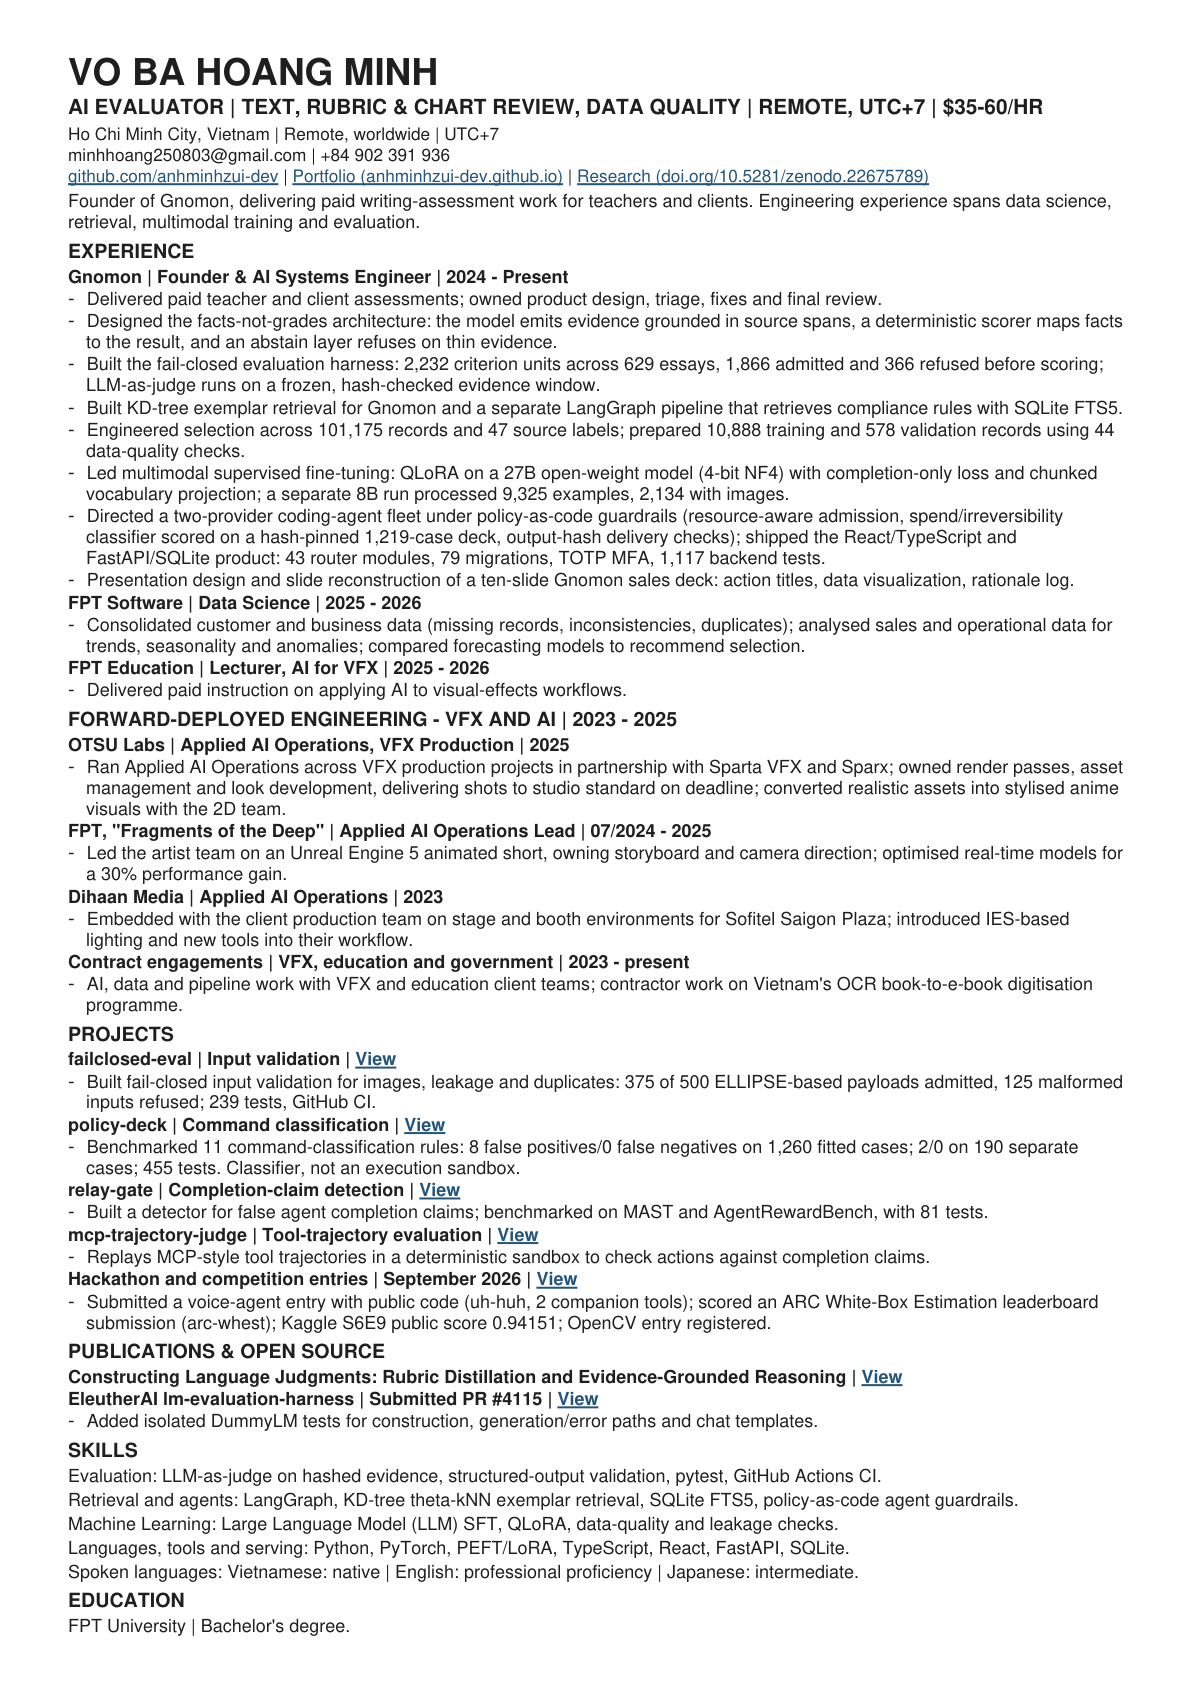
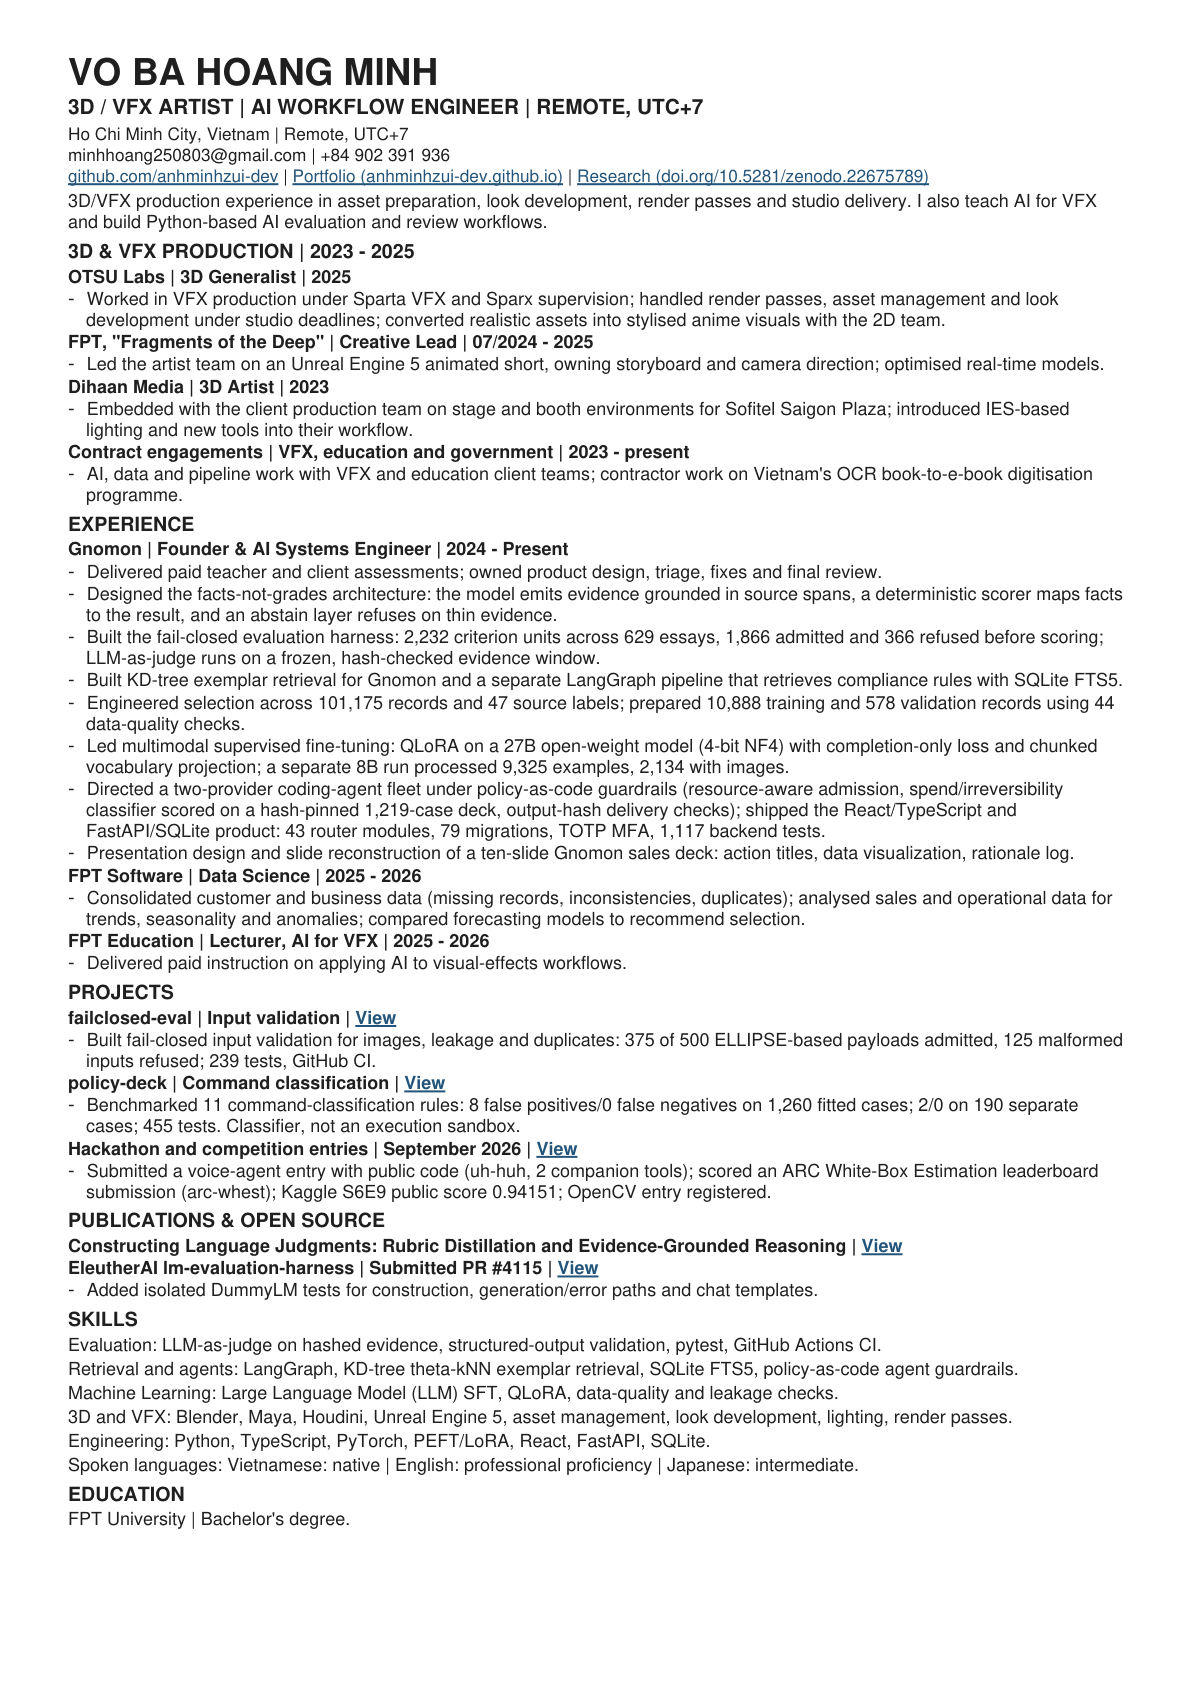
Publish CV r23 (sha256 e47866fd25857251)

Changed region(s): [[0.0621, 0.0617, 0.932, 0.9875], [0.2485, 0.9567, 0.2796, 0.9875]]

diff --git a/cv/build_cv.py b/cv/build_cv.py
@@ -24,16 +24,16 @@ TAG = sys.argv[1] if len(sys.argv) > 1 else "untagged"
 OUT = Path(__file__).resolve().parent / "build" / TAG
 STEM = "Vo_Ba_Hoang_Minh_AI_Engineer_CV"
 NAME = "VO BA HOANG MINH"
-TITLE = "AI EVALUATOR | TEXT, RUBRIC & CHART REVIEW, DATA QUALITY | REMOTE, UTC+7 | $35-60/HR"
+TITLE = "3D / VFX ARTIST | AI WORKFLOW ENGINEER | REMOTE, UTC+7"
 PORTFOLIO = "https://anhminhzui-dev.github.io/anhminhzui-dev/"
-CONTACT = ('Ho Chi Minh City, Vietnam | Remote, worldwide | UTC+7<br/>'
+CONTACT = ('Ho Chi Minh City, Vietnam | Remote, UTC+7<br/>'
            '<a href="mailto:minhhoang250803@gmail.com">minhhoang250803@gmail.com</a> | '
            '<a href="tel:+84902391936">+84 902 391 936</a><br/>'
            '<a href="https://github.com/anhminhzui-dev" color="#24557a"><u>github.com/anhminhzui-dev</u></a> | '
            '<a href="' + PORTFOLIO + '" color="#24557a"><u>Portfolio (anhminhzui-dev.github.io)</u></a> | '
            '<a href="https://doi.org/10.5281/zenodo.22675789" color="#24557a"><u>Research (doi.org/10.5281/zenodo.22675789)</u></a>')
-INTRO = ("Founder of Gnomon, delivering paid writing-assessment work for teachers and clients. "
-         "Engineering experience spans data science, retrieval, multimodal training and evaluation.")
+INTRO = ("3D/VFX production experience in asset preparation, look development, render passes and studio delivery. "
+         "I also teach AI for VFX and build Python-based AI evaluation and review workflows.")
 REPORT = "https://doi.org/10.5281/zenodo.22675789"
 PR = "https://github.com/EleutherAI/lm-evaluation-harness/pull/4115"
 
@@ -64,17 +64,17 @@ SECTIONS = [
    ('FPT Education | Lecturer, AI for VFX | 2025 - 2026',
     None,
     ['Delivered paid instruction on applying AI to visual-effects workflows.'])]),
- ('FORWARD-DEPLOYED ENGINEERING - VFX AND AI | 2023 - 2025',
-  [('OTSU Labs | Applied AI Operations, VFX Production | 2025',
+ ('3D & VFX PRODUCTION | 2023 - 2025',
+  [('OTSU Labs | 3D Generalist | 2025',
     None,
-    ['Ran Applied AI Operations across VFX production projects in partnership with Sparta VFX and Sparx; owned '
-     'render passes, asset management and look development, delivering shots to studio standard on deadline; '
+    ['Worked in VFX production under Sparta VFX and Sparx supervision; handled '
+     'render passes, asset management and look development under studio deadlines; '
      'converted realistic assets into stylised anime visuals with the 2D team.']),
-   ('FPT, "Fragments of the Deep" | Applied AI Operations Lead | 07/2024 - 2025',
+   ('FPT, "Fragments of the Deep" | Creative Lead | 07/2024 - 2025',
     None,
     ['Led the artist team on an Unreal Engine 5 animated short, owning storyboard and camera direction; '
-     'optimised real-time models for a 30% performance gain.']),
-   ('Dihaan Media | Applied AI Operations | 2023',
+     'optimised real-time models.']),
+   ('Dihaan Media | 3D Artist | 2023',
     None,
     ['Embedded with the client production team on stage and booth environments for Sofitel Saigon Plaza; '
      'introduced IES-based lighting and new tools into their workflow.']),
@@ -91,12 +91,6 @@ SECTIONS = [
     'https://github.com/anhminhzui-dev/policy-deck',
     ['Benchmarked 11 command-classification rules: 8 false positives/0 false negatives on 1,260 fitted '
      'cases; 2/0 on 190 separate cases; 455 tests. Classifier, not an execution sandbox.']),
-   ('relay-gate | Completion-claim detection',
-    'https://github.com/anhminhzui-dev/relay-gate',
-    ['Built a detector for false agent completion claims; benchmarked on MAST and AgentRewardBench, with 81 tests.']),
-   ('mcp-trajectory-judge | Tool-trajectory evaluation',
-    'https://github.com/anhminhzui-dev/mcp-trajectory-judge',
-    ['Replays MCP-style tool trajectories in a deterministic sandbox to check actions against completion claims.']),
    ('Hackathon and competition entries | September 2026',
     'https://github.com/anhminhzui-dev',
     ['Submitted a voice-agent entry with public code (uh-huh, 2 companion tools); scored an ARC White-Box '
@@ -117,9 +111,13 @@ SECTIONS = [
    ('', None, ['Machine Learning: Large Language Model (LLM) SFT, QLoRA, data-quality and leakage checks.']),
    ('',
     None,
-    ['Languages, tools and serving: Python, PyTorch, PEFT/LoRA, TypeScript, React, FastAPI, SQLite.',
+    ['3D and VFX: Blender, Maya, Houdini, Unreal Engine 5, asset management, look development, lighting, render passes.',
+     'Engineering: Python, TypeScript, PyTorch, PEFT/LoRA, React, FastAPI, SQLite.',
      'Spoken languages: Vietnamese: native | English: professional proficiency | Japanese: intermediate.'])]),
  ('EDUCATION', [('', None, ["FPT University | Bachelor's degree."])])]
+
+# Lead with the work this campaign is applying to while retaining the full AI record.
+SECTIONS[0], SECTIONS[1] = SECTIONS[1], SECTIONS[0]
 
 
 def build():
